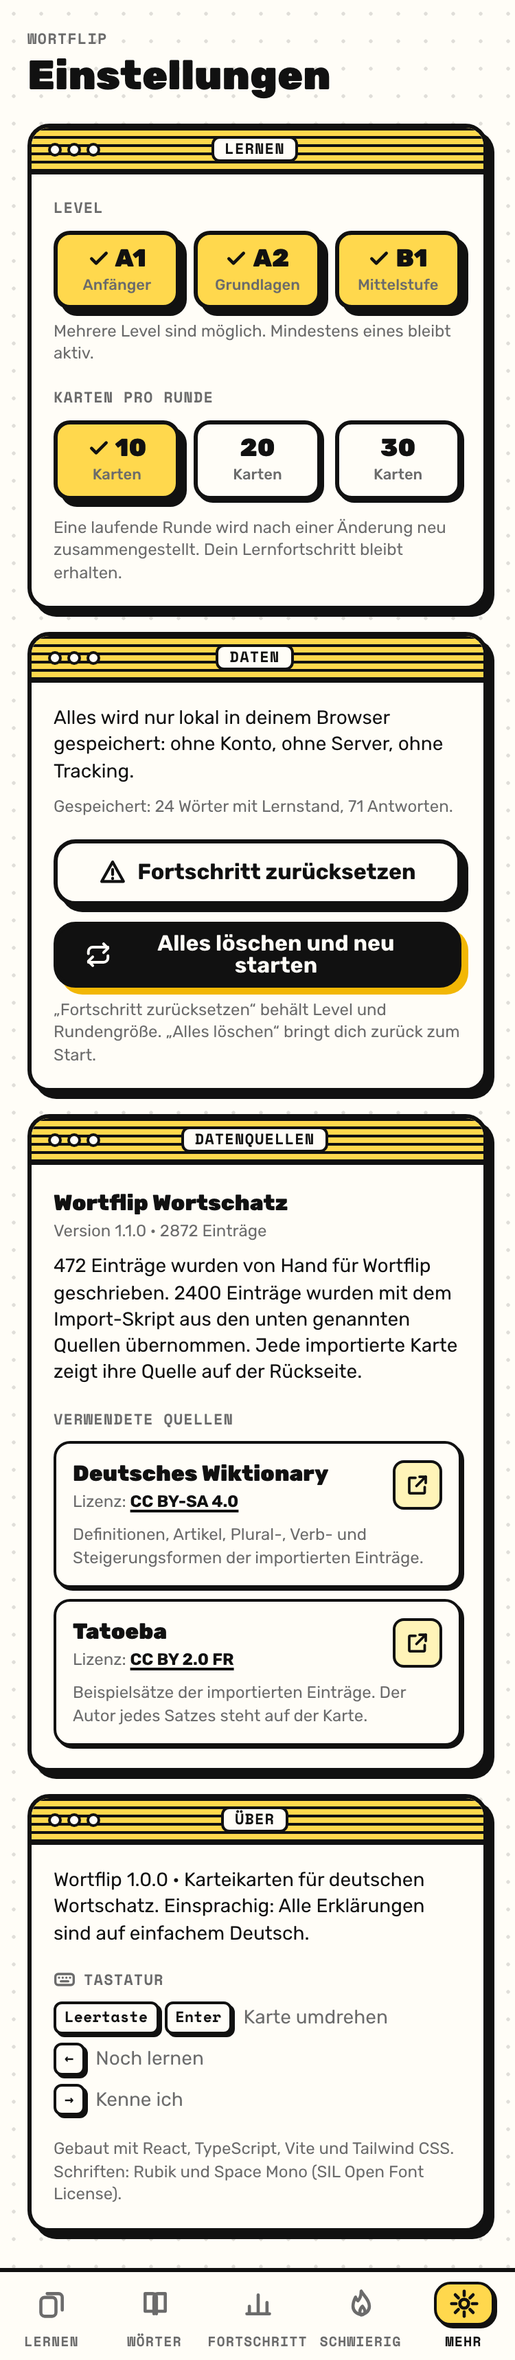
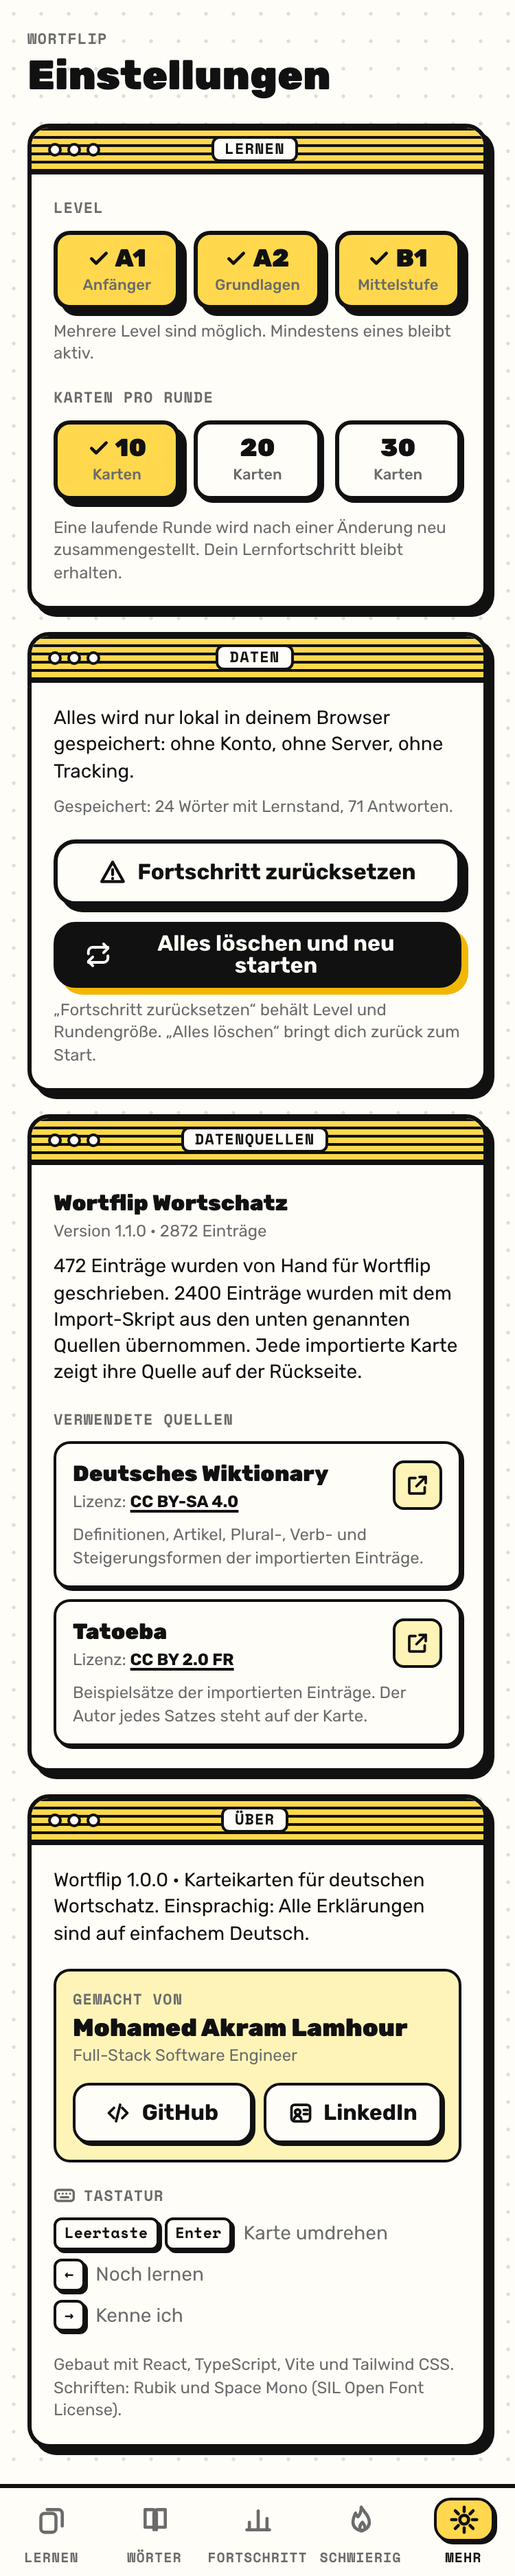
Add author credits with GitHub and LinkedIn links

diff --git a/src/screens/SettingsScreen.tsx b/src/screens/SettingsScreen.tsx
@@ -1,5 +1,5 @@
 import { ChoiceGroup, type Choice } from '../components/ChoiceGroup';
-import { ExternalLinkIcon, KeyboardIcon, WarningIcon } from '../components/Icons';
+import { BadgeIcon, CodeIcon, ExternalLinkIcon, KeyboardIcon, WarningIcon } from '../components/Icons';
 import { LevelPicker } from '../components/LevelPicker';
 import { ResetButton } from '../components/ResetButton';
 import { ScreenHeader } from '../components/ScreenHeader';
@@ -9,6 +9,7 @@ import { SESSION_SIZES } from '../learning/storage';
 import type { SessionSize } from '../learning/types';
 import { pluralize } from '../lib/format';
 import { useApp } from '../state/AppContext';
+import { AUTHOR } from '../author';
 
 const SIZE_CHOICES: readonly Choice<SessionSize>[] = SESSION_SIZES.map((size) => ({
   value: size,
@@ -112,6 +113,31 @@ export function SettingsScreen() {
         <p className="text-sm leading-snug">
           Wortflip {__APP_VERSION__} · Karteikarten für deutschen Wortschatz. Einsprachig: Alle Erklärungen sind auf einfachem Deutsch.
         </p>
+        <div className="mt-4 rounded-xl border-2 border-black bg-yellow-light p-3">
+          <p className="font-mono text-[11px] font-bold uppercase tracking-wider text-gray">Gemacht von</p>
+          <p className="mt-0.5 text-lg font-black leading-tight">{AUTHOR.name}</p>
+          <p className="text-xs text-gray">{AUTHOR.role}</p>
+          <div className="mt-3 grid grid-cols-2 gap-2">
+            <a
+              href={AUTHOR.github}
+              target="_blank"
+              rel="noreferrer"
+              className="inline-flex min-h-11 items-center justify-center gap-2 rounded-xl border-2 border-black bg-white font-bold shadow-hard-xs transition-colors hover:bg-yellow"
+            >
+              <CodeIcon size={18} />
+              GitHub
+            </a>
+            <a
+              href={AUTHOR.linkedin}
+              target="_blank"
+              rel="noreferrer"
+              className="inline-flex min-h-11 items-center justify-center gap-2 rounded-xl border-2 border-black bg-white font-bold shadow-hard-xs transition-colors hover:bg-yellow"
+            >
+              <BadgeIcon size={18} />
+              LinkedIn
+            </a>
+          </div>
+        </div>
         <h4 className="mt-4 flex items-center gap-1.5 font-mono text-[11px] font-bold uppercase tracking-wider text-gray">
           <KeyboardIcon size={16} /> Tastatur
         </h4>

diff --git a/src/components/Icons.tsx b/src/components/Icons.tsx
@@ -192,6 +192,24 @@ export const SearchIcon = (p: IconProps) => (
   </Icon>
 );
 
+export const CodeIcon = (p: IconProps) => (
+  <Icon {...p}>
+    <path d="M8 7l-5 5 5 5" />
+    <path d="M16 7l5 5-5 5" />
+    <path d="M14 4l-4 16" />
+  </Icon>
+);
+
+export const BadgeIcon = (p: IconProps) => (
+  <Icon {...p}>
+    <rect x="3" y="4" width="18" height="16" rx="3" />
+    <circle cx="9" cy="11" r="2.5" />
+    <path d="M5.5 18c.6-2.2 1.9-3.3 3.5-3.3s2.9 1.1 3.5 3.3" />
+    <path d="M15 9h3.5" />
+    <path d="M15 13h3.5" />
+  </Icon>
+);
+
 export const KeyboardIcon = (p: IconProps) => (
   <Icon {...p}>
     <rect x="2" y="6" width="20" height="12" rx="3" />

diff --git a/src/author.ts b/src/author.ts
@@ -1,0 +1,7 @@
+/** Who made Wortflip. Shown in the settings screen under "Über". */
+export const AUTHOR = {
+  name: 'Mohamed Akram Lamhour',
+  role: 'Full-Stack Software Engineer',
+  github: 'https://github.com/Lamhour-Mohamed-Akram',
+  linkedin: 'https://www.linkedin.com/in/ak2lamhour/',
+} as const;

diff --git a/README.md b/README.md
@@ -5,6 +5,8 @@ A static Progressive Web App: no account, no server, no requests to any API whil
 
 **Live:** https://wortflip.netlify.app
 
+**Made by** Mohamed Akram Lamhour: [GitHub](https://github.com/Lamhour-Mohamed-Akram) · [LinkedIn](https://www.linkedin.com/in/ak2lamhour/)
+
 - **Tap** to flip the card: definition, example sentence and forms (plural, verb forms, comparison), all in simple German.
 - **Swipe** to rate: right = "Kenne ich", left = "Noch lernen". Buttons and keyboard work too.
 - **Spaced repetition** decides when a word comes back (Leitner boxes: 1, 3, 7, 14, 30 days).
